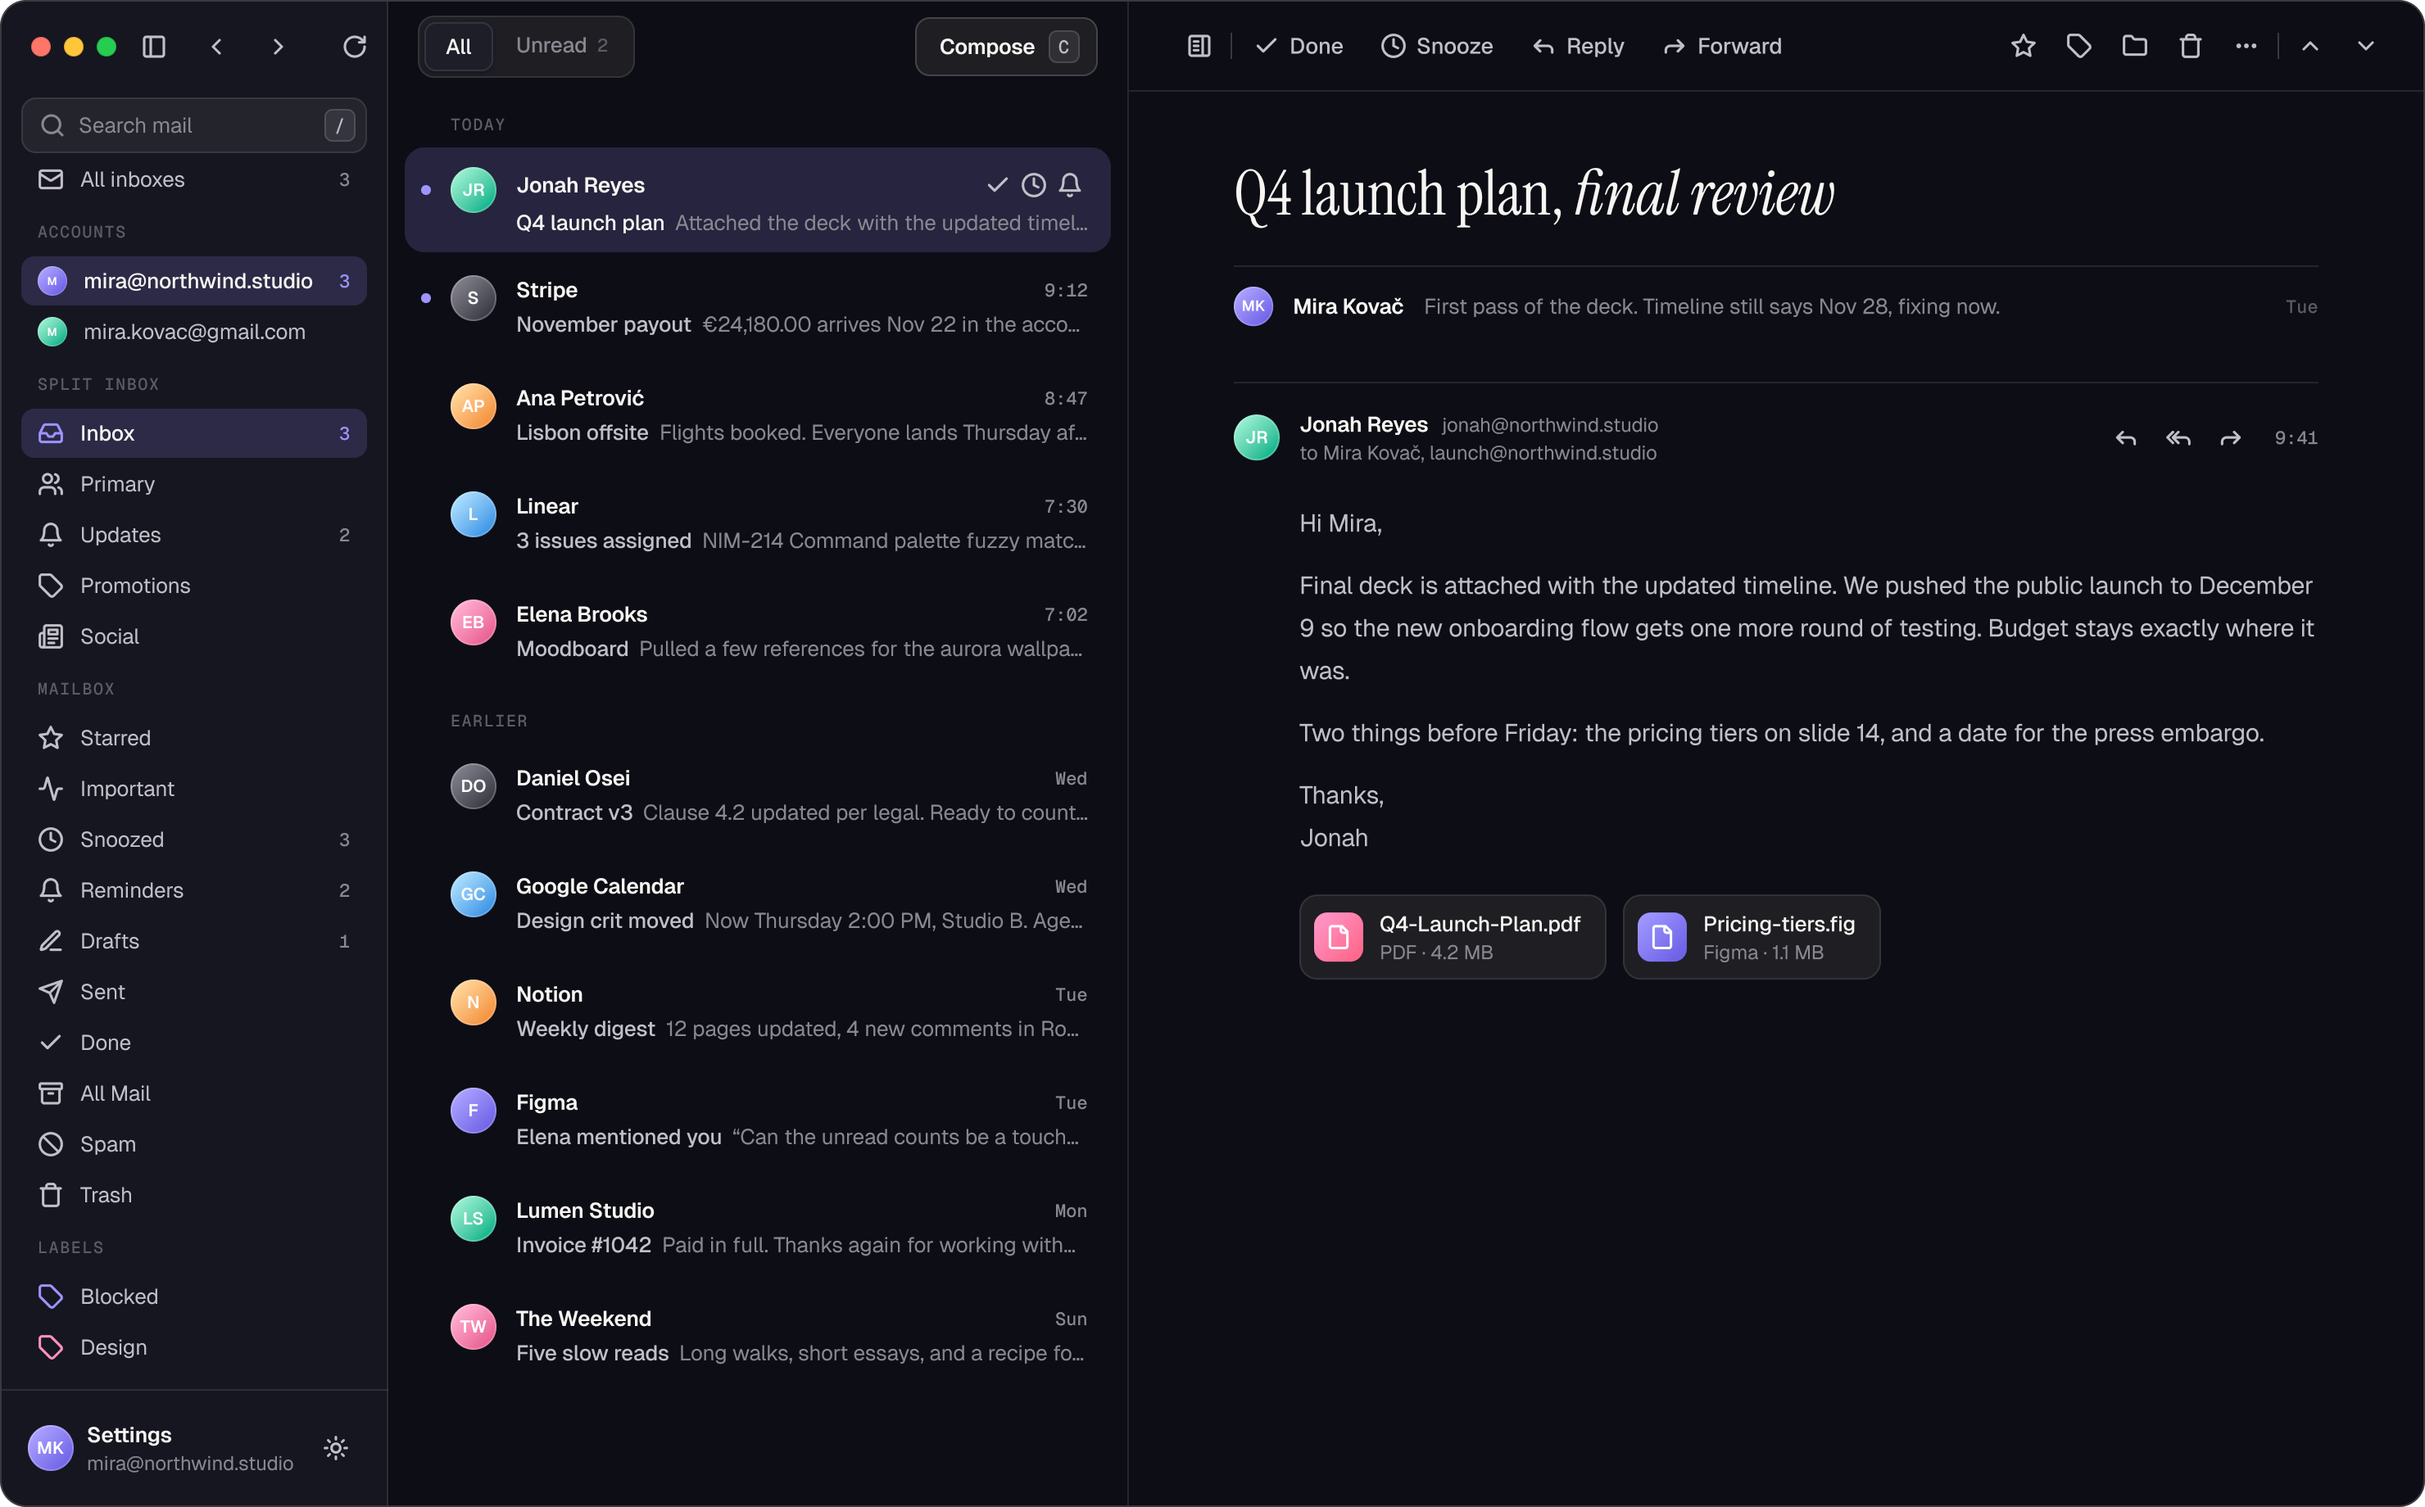
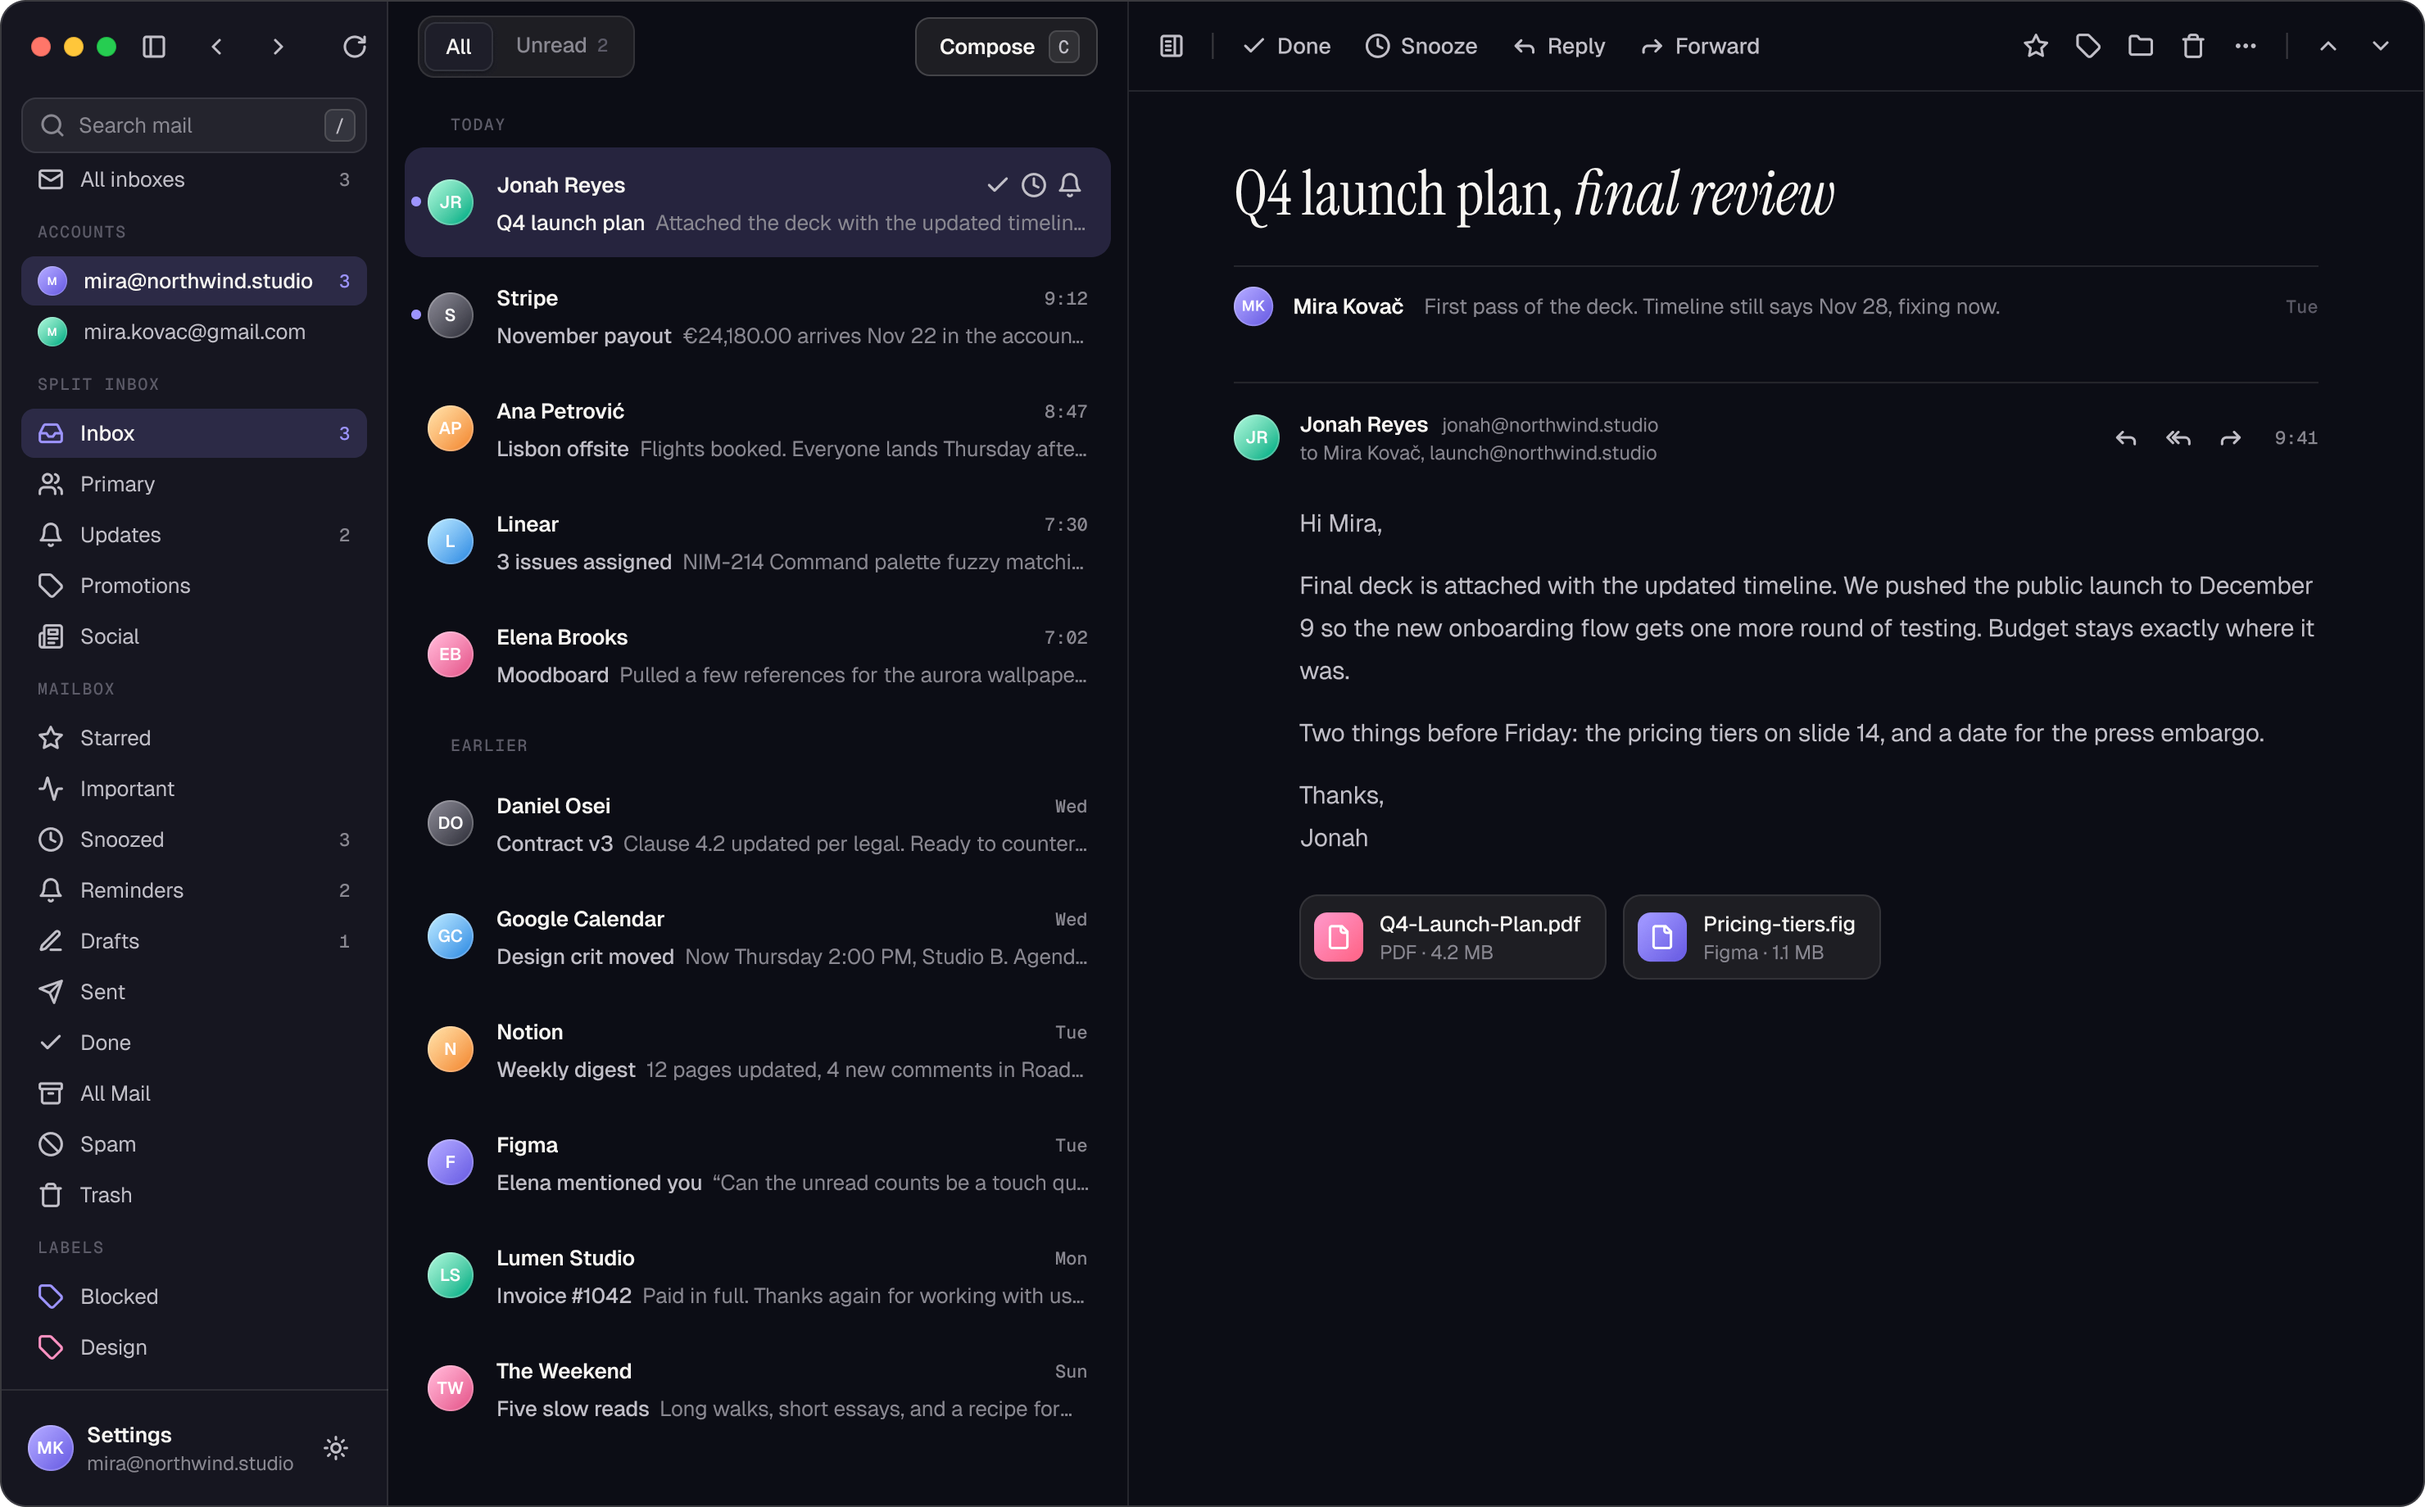
docs: changelog and readme images for the unreleased work
Note the sidebar arrangement, the calmer list and toolbar, and the
honest sample mail in the unreleased changelog, and retake the
showcase screenshots in both themes.

Changed region(s): [[0.1554, 0.0929, 0.4662, 0.9603], [0.5595, 0.0, 0.5905, 0.031]]

diff --git a/CHANGELOG.md b/CHANGELOG.md
@@ -5,9 +5,12 @@
 ### New
 - **Check for Updates.** In the Nimbra menu, and in Settings › About with the update's status and a Restart button once one is ready.
 - **A clearer reading toolbar.** Done, Snooze, Reply and Forward as words on the left; star, label, move, trash and more on the right. Reply all and Show original are in the more menu (and A and V). A message in its own window has the same look.
-- **A new thought every day.** Inbox Zero has 365 lines now, one for each day of the year: some quiet, some silly, and some famous quotes, with their authors set apart under a small "For today" label.
+- **A new thought every day.** Inbox Zero has 365 lines now, one for each day of the year: some quiet, some silly, and some famous quotes, with their authors set apart below them.
+- **Arrange the sidebar.** Drag accounts, Split Inbox, Mailbox and labels into the order you like, each within its own section; right-click a mailbox to hide it, or to reset its section. A "hidden" row shows them again.
 
 ### Changed
+- **A calmer list and toolbar.** Compose is a plain toolbar action, the list's top bar has a line under it, the rows line up with the bar above them, and a thread's two lines have a little more room. The view switch in the more menu reads "Switch to reader view" or "Switch to original", and an email's original view lines up with the toolbar.
+- **The sample mail shows only what Nimbra really does.** Its made-up stats, meeting card and streak are gone.
 - **About is simpler.** Check for updates and nimbra.me; the shortcuts are in Settings › Shortcuts and on ?.
 
 ## [0.1.1] - 2026-11-26
